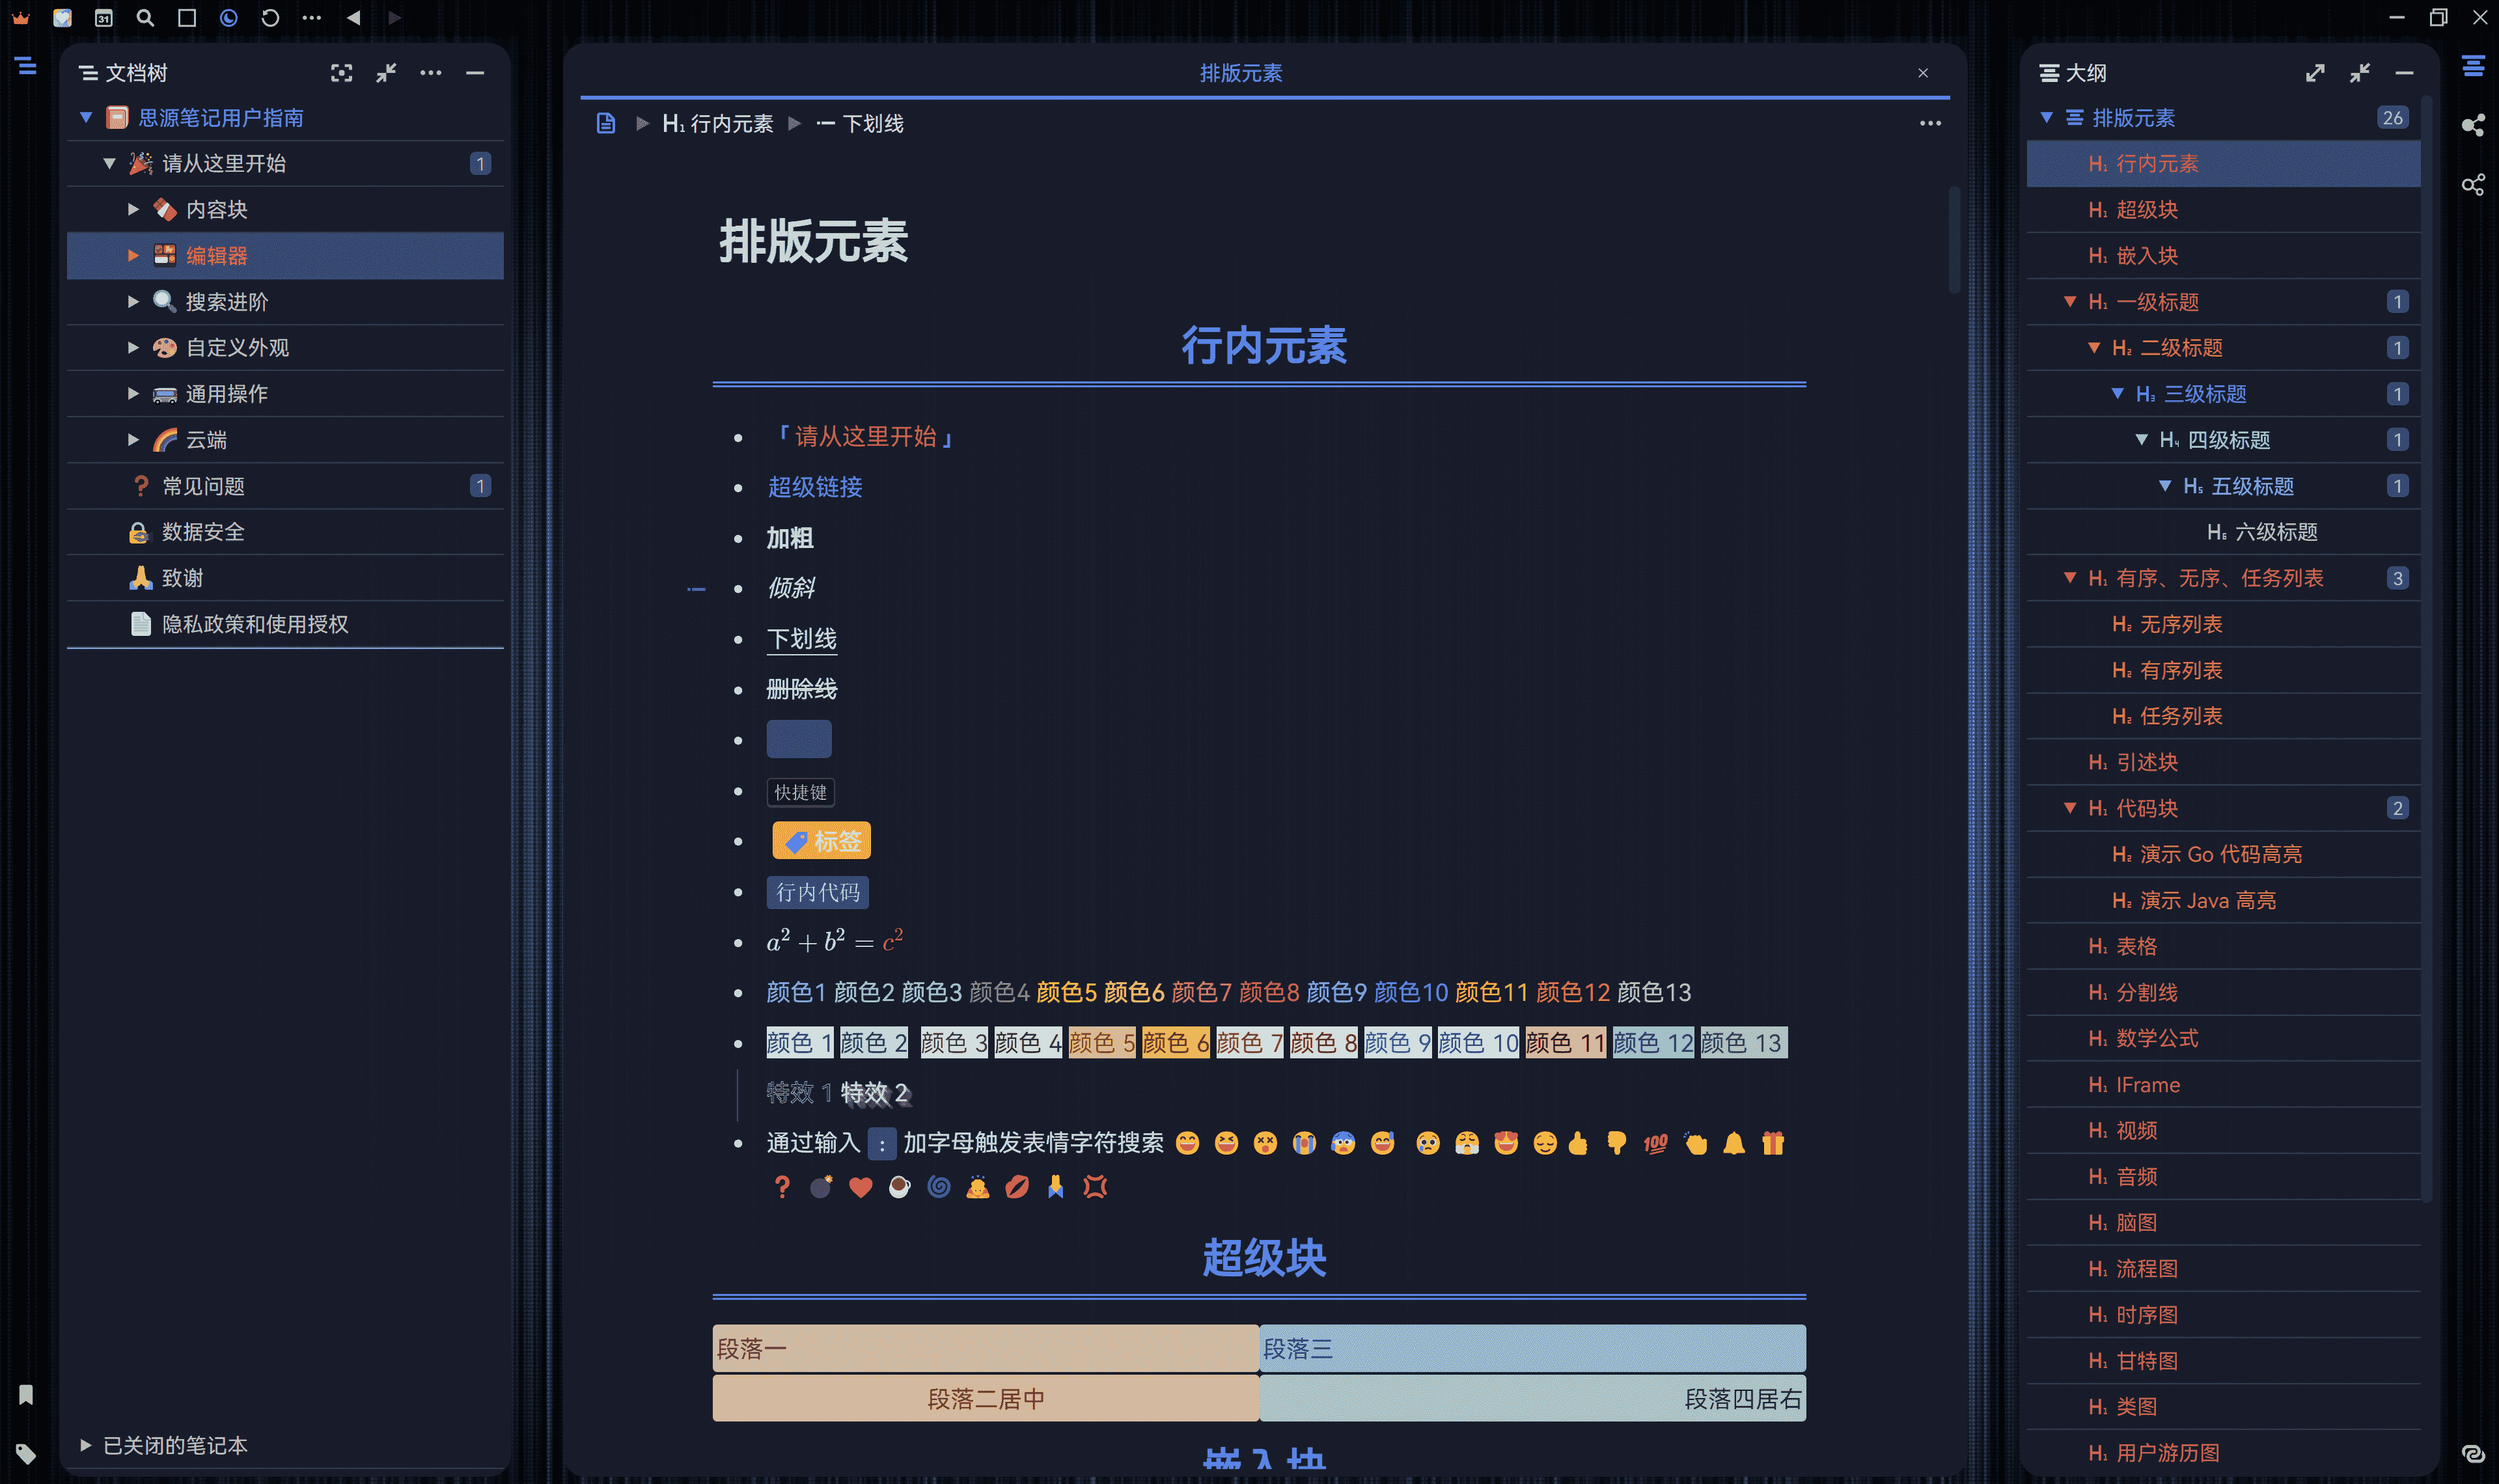
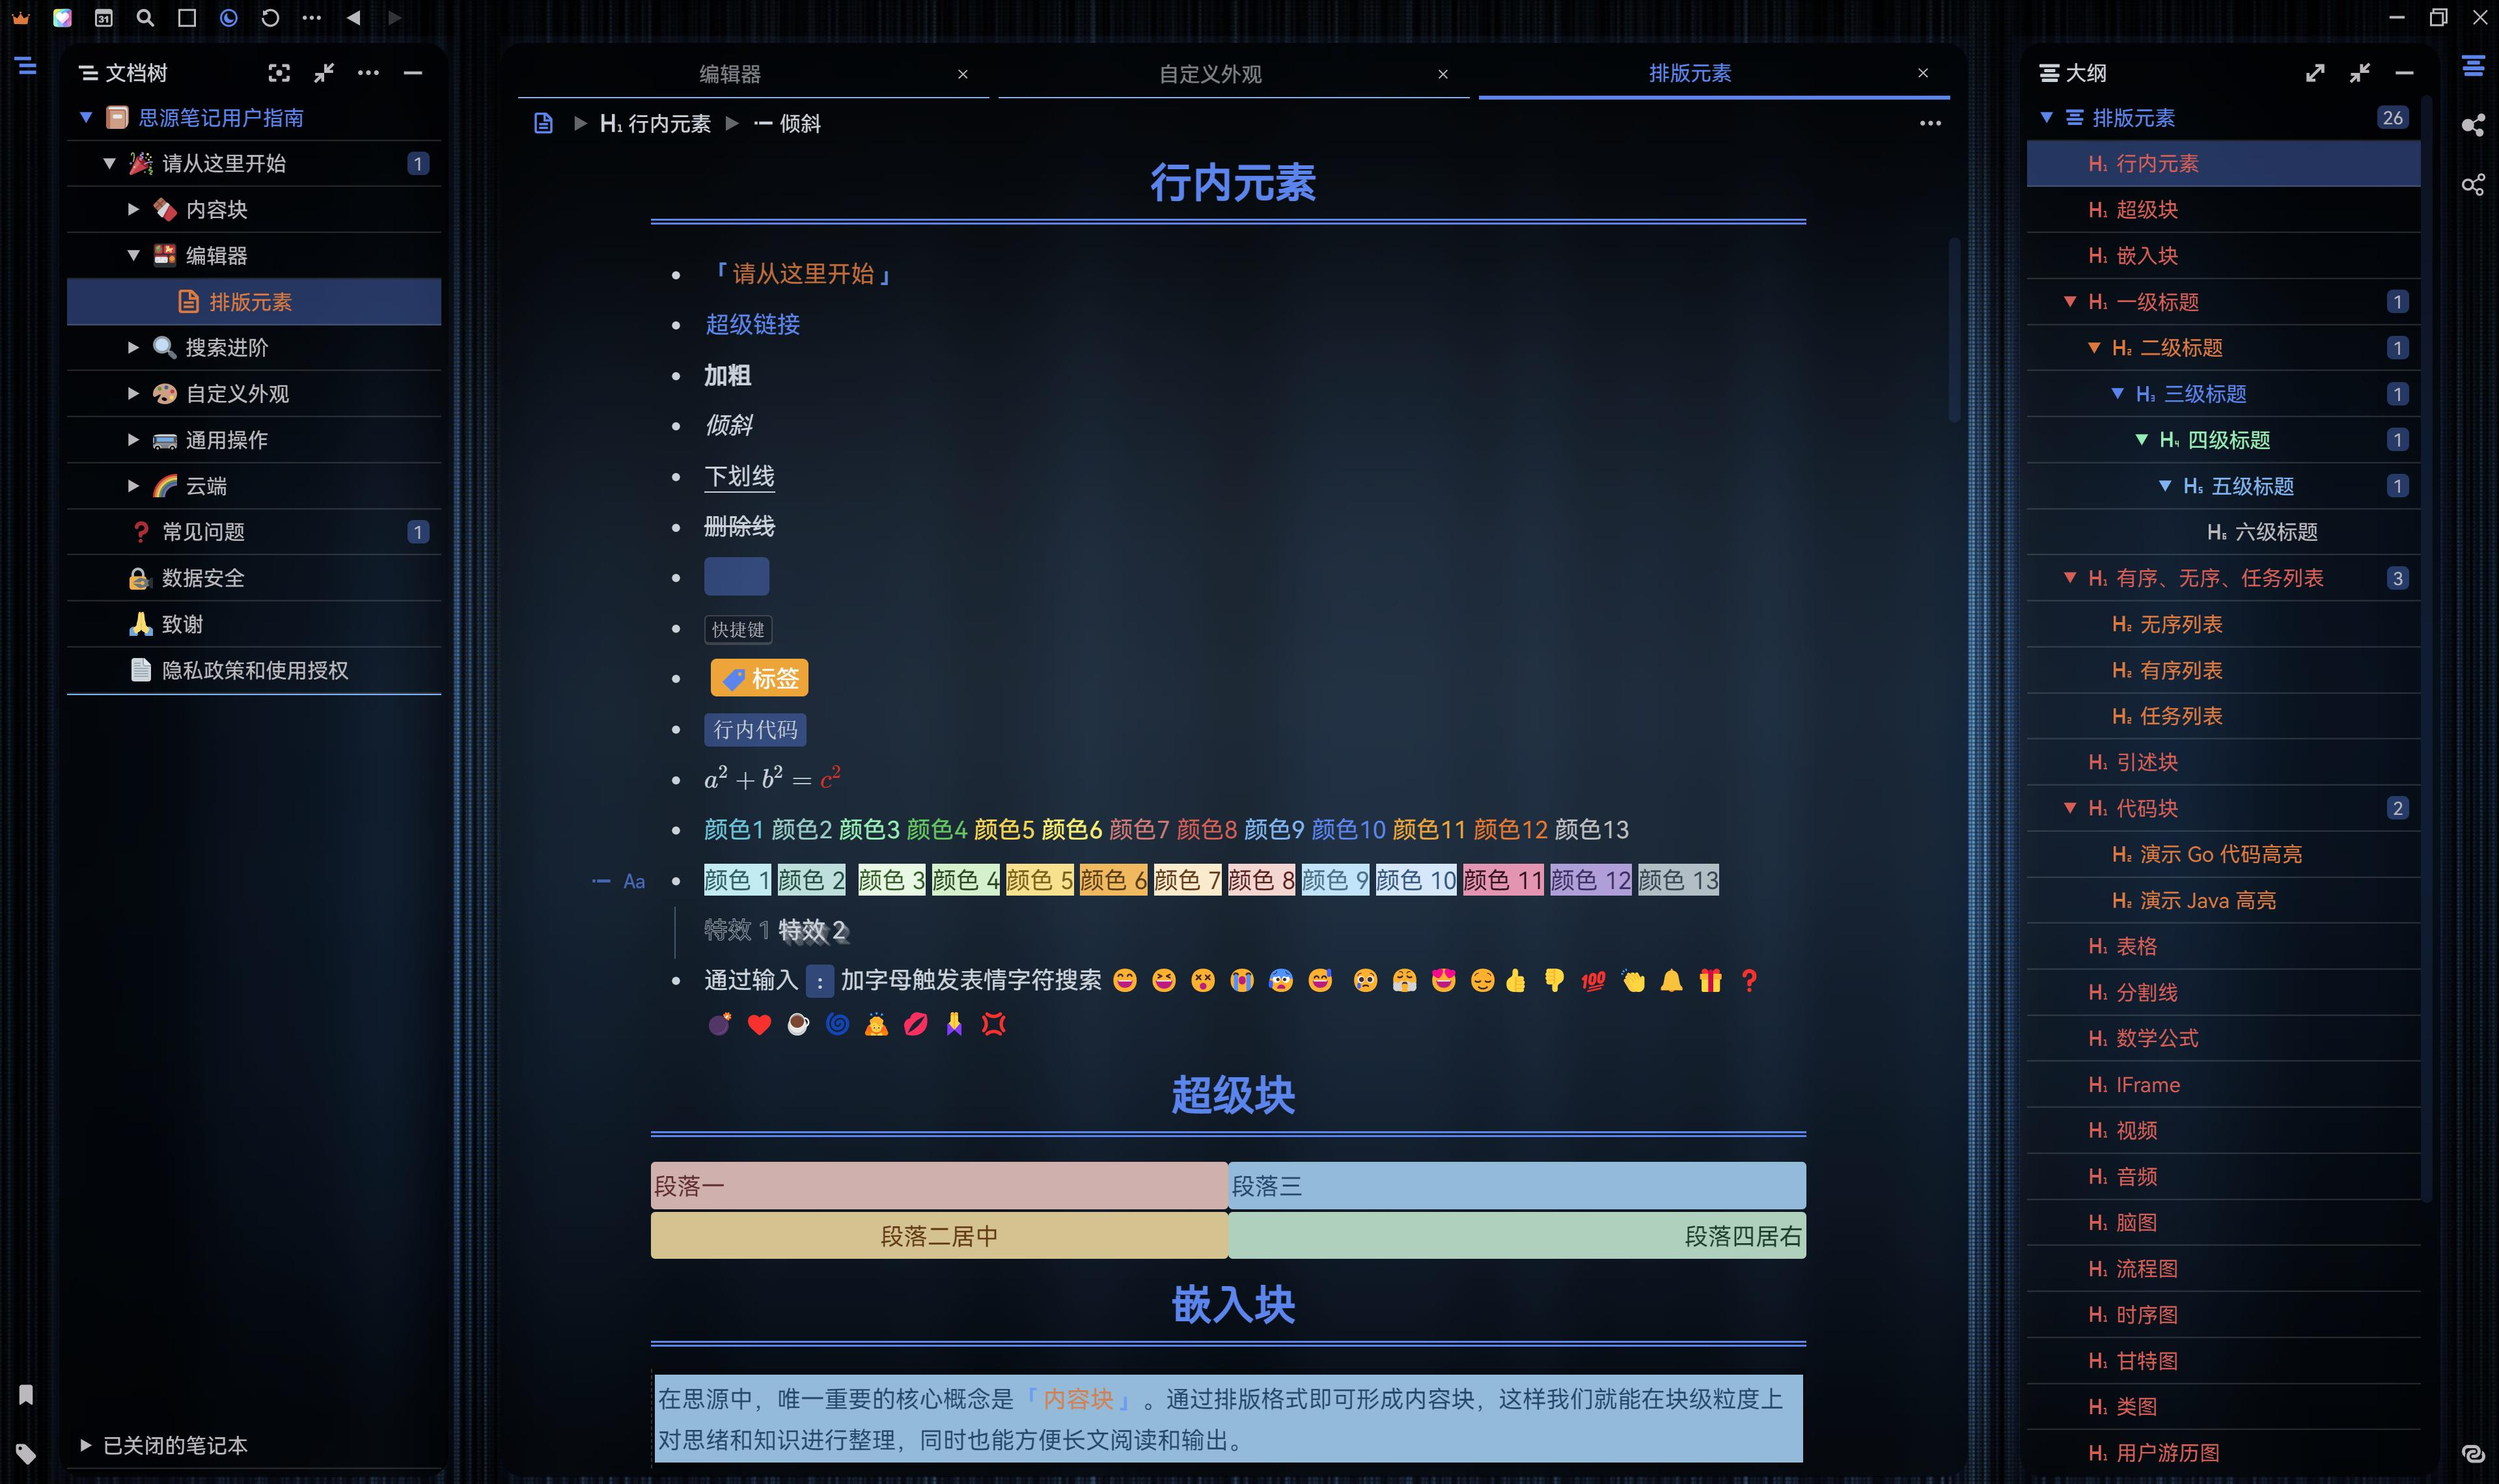
Add files via upload

diff --git a/theme.css b/theme.css
@@ -218,9 +218,9 @@
     --background-image:url(img/bg.jpg);
 	/* 背景图 */
     --blur-value:20px;
-	/* 背景图片模糊程度,因性能原因已暂时取消*/
+	/* 背景图片模糊程度*/
     --glass-editor-background:rgba(0,0,0,20%);
-	/* 毛玻璃效果：背景色,因性能原因已暂时取消*/
+	/* 毛玻璃效果*/
     --glass-box-shadow:0 4px 12px rgba(120,120,120,0.25);
 	/* 毛玻璃效果：阴影 */
 
@@ -341,9 +341,9 @@ body {
 	background-position:center top;
 	background-size:cover;
 }
+/*****************************************正常特效，和毛玻璃只能选一个注释*********************
 .fn__flex-1.fn__flex [data-type='wnd'] {
-	background:var(--background2);
-	/* background:transparent; */
+	background:var(--dialog-background);
 	min-height:90% !important;
 	margin:5px;
 	padding:5px;
@@ -353,15 +353,48 @@ body {
 	box-sizing:border-box;
 	border-radius:15px;
 }
-/* 毛玻璃特效
-.fn__flex-1.fn__flex [data-type='wnd']:before {
+.b3-menu,.protyle-util {
+	padding:10px 0px;
+	background-color:var(--dialog-background);
+}
+/*****************************************正常特效结束*****************************************/
+
+/*****************************************毛玻璃特效部分*****************************************/
+.fn__flex-1.fn__flex [data-type='wnd'] {
+	background:transparent;
+	min-height:90% !important;
+	margin:5px;
+	padding:5px;
+	position:relative;
+	box-shadow:0px 0px 40px 8px rgba(66,133,244,0.10);
+	overflow:hidden;
+	box-sizing:border-box;
+	border-radius:15px;
+}
+.block__popover,.protyle[data-index="0"]  {
+	background:transparent;
+}
+.block__popover:before,.fn__flex-1.fn__flex [data-type='wnd']:before {
 	content: "";
 	position: absolute;
 	top: 0;	left: 0; right: 0;	bottom: 0;
 	z-index: -3;
-	background-color: rgba(0,0,0,0.2);
-	backdrop-filter: blur(20px);
-} */
+	background-color: var(--glass-editor-background);
+	backdrop-filter: blur(var(--blur-value));
+}
+.b3-menu,.protyle-util {
+	padding:10px 0px;
+	background-color: var(--glass-editor-background);
+	backdrop-filter: blur(var(--blur-value));
+}
+/*****************************************毛玻璃特效结束*****************************************/
+.block__popover.block__popover--move.block__popover--open {
+	border-radius:15px;
+	box-shadow:var(--b3-dialog-shadow);
+}
+.fullscreen {
+	background-color:var(--dialog-background) !important;
+}
 .layout__center .fn__flex-1.fn__flex [data-type='wnd'] {
 	margin:5px auto;
 	padding:5px 5px;
@@ -436,15 +469,6 @@ body {
 .spread-search__preview {
 	border-top: 1px solid var(--b3-theme-primary);
 }
-/***弹出页面***/
-.block__popover {
-	background-color:var(--dialog-background);
-}
-.block__popover.block__popover--move.block__popover--open {
-	border-radius:15px;
-	box-shadow:var(--b3-dialog-shadow);
-}
-
 .protyle-background {
 	margin:10px;
 	border-radius:8px;
@@ -481,7 +505,7 @@ body {
 body.body--win32 {
 	border:0px solid var(--b3-border-color);
 }
-/******** 毛玻璃效果实验功能代码结束 ***************/
+
 
 
 /**** 反链面板 ****/
@@ -490,10 +514,6 @@ body.body--win32 {
 
 
 /**** 菜单 ****/
-.b3-menu,.protyle-util {
-	padding:10px 0px;
-	background-color:var(--dialog-background);
-}
 /* 菜单项 */
 .b3-menu__item {
 	padding:2px 16px 2px 16px;
@@ -629,7 +649,6 @@ body.body--win32 {
 .layout__center .layout-tab-bar {
 	background:transparent;
 	padding:0 4px;
-	border:none;
 }
 .layout__center .layout-tab-bar .item:hover {
 	background-color:transparent;
@@ -778,9 +797,7 @@ strong[style="background-color: var(--b3-font-background13);"] {
 	background-color:var(--b3-theme-primary);
 	color:var(--b3-theme-surface);
 }
-.fullscreen {
-	background-color:var(--dialog-background) !important;
-}
+
 /**** 其他 ****/
 /* 大文件分页加载条 */
 .protyle-scroll {
@@ -805,8 +822,9 @@ strong[style="background-color: var(--b3-font-background13);"] {
 	background-color:transparent;
 }
 /* 隐藏空白行的提示文字 */
-.protyle-wysiwyg [data-node-id] [spellcheck="false"]:focus:empty:after {
-	content:'';
+.protyle-wysiwyg [data-node-id] [spellcheck="false"]:empty:after {
+	content:'•';
+	opacity: 0.3;
 }
 /************** 三、编辑器行内样式 ***********************/
 
@@ -1318,6 +1336,6 @@ to {
 .side-panel {
 	background-color:var(--dialog-background);
 }
-.protyle {
-	background-color:rgba(16,22,31,0.75);
+#editor {
+	background:var(--dialog-background);
 }
